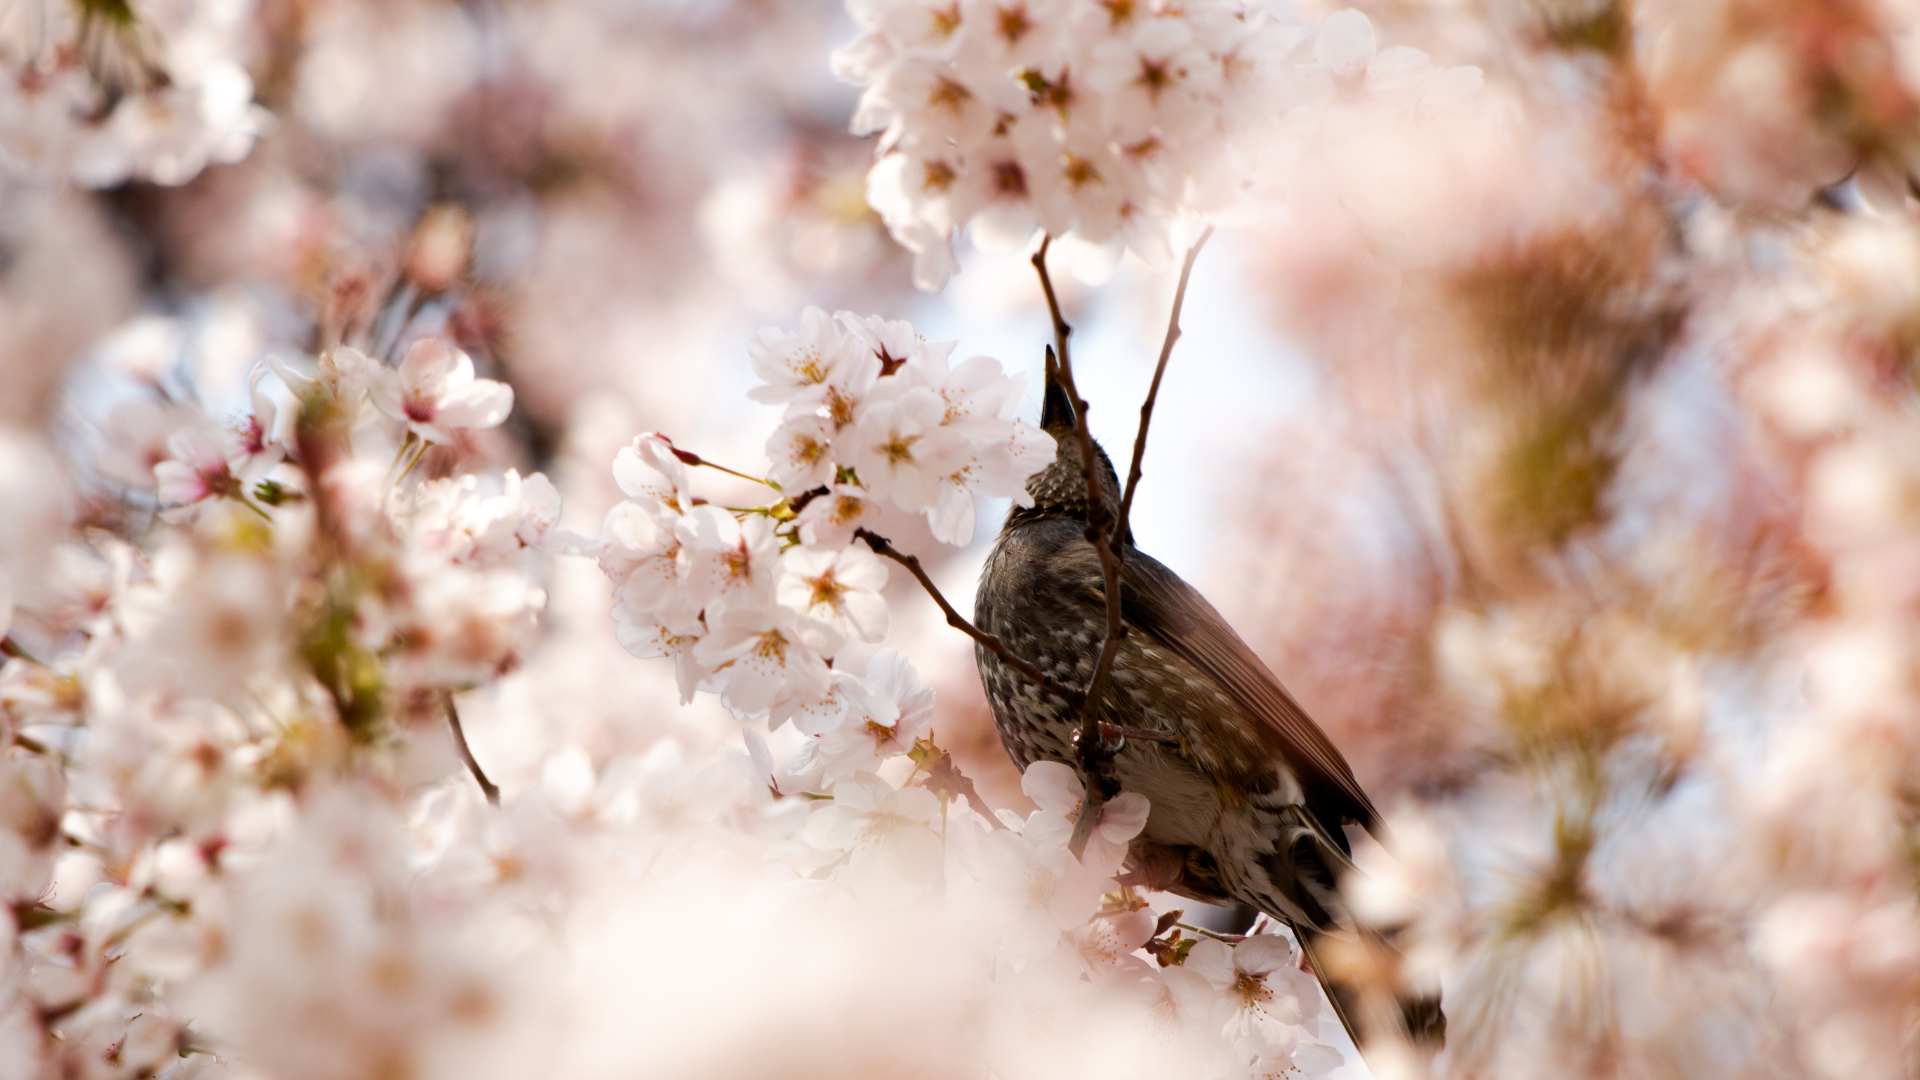
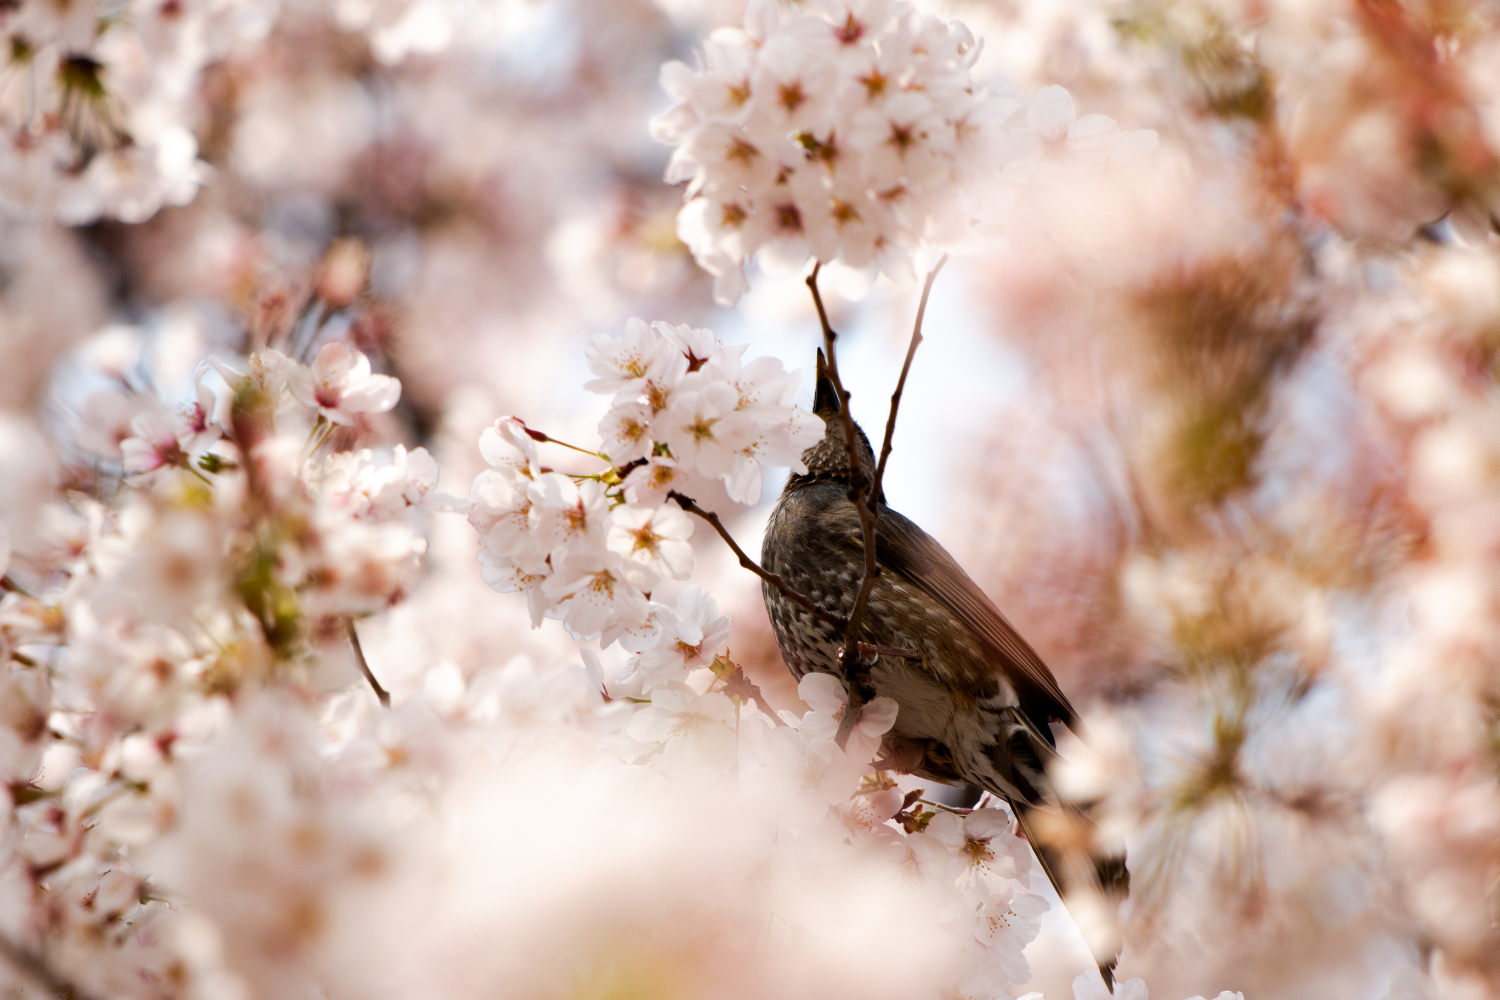
Create loading animation, modify background

diff --git a/src/components/Loading.vue b/src/components/Loading.vue
@@ -1,0 +1,113 @@
+<template>
+    <div id="loading">
+        <div id="fix"/>
+
+        <div id="logo_wait">
+            <img src="@/assets/header_logo/logo_black.svg" alt="logo" />
+        </div>
+
+        <div id="loading_anime">
+            <span class="loading_movie loading_movie-1" />
+            <span class="loading_movie loading_movie-2" />
+            <span class="loading_movie loading_movie-3" />
+        </div>
+    </div>
+</template>
+
+<script>
+export default {
+    
+}
+</script>
+
+<style>
+#fix {
+    width:100vw;
+    height:60px;
+    content:none;
+}
+
+#loading {
+    margin: auto;
+    display:flex;
+    flex-direction: column;
+    align-items:center;
+}
+
+#logo_wait img{
+    width:30vw;
+    height:auto;
+}
+
+#loading_anime {
+    display:flex;
+    align-items:center;
+    justify-content:center;
+    
+}
+.loading_movie {
+    display: block;
+
+    width:10px;
+    height:10px;
+
+    margin:0 5px;
+    margin-top:10px;
+
+    background-color:#EEF1F2;
+
+    transition: all .6s;
+    border-radius:3px;
+
+}
+
+.loading_movie-1 {
+    animation: change-color1 3s linear infinite;
+}
+
+.loading_movie-2 {
+    animation: change-color2 3s linear infinite;
+}
+
+.loading_movie-3 {
+    animation: change-color3 3s linear infinite;
+}
+
+@keyframes change-color1 {
+    0% {
+        background-color:#EEF1F2;
+    } 25% {
+        background-color: #1A1A1A; 
+    } 75% {
+        background-color: #1A1A1A; 
+    } 100% {
+        background-color:#EEF1F2;
+    }
+}
+
+@keyframes change-color2 {
+    30% {
+        background-color:#EEF1F2;
+    } 50% {
+        background-color: #1A1A1A; 
+    } 75% {
+        background-color: #1A1A1A; 
+    } 100% {
+        background-color:#EEF1F2;
+    }
+}
+
+@keyframes change-color3 {
+    50% {
+        background-color:#EEF1F2;
+    } 75% {
+        background-color: #1A1A1A; 
+    } 75% {
+        background-color: #1A1A1A; 
+    } 100% {
+        background-color:#EEF1F2;
+    }
+}
+</style>
+
+

diff --git a/src/components/SpHeader.vue b/src/components/SpHeader.vue
@@ -67,6 +67,7 @@ export default {
     }
   },
 
+  /* こいつが怪しい */
   beforeDestroy() {
     store.dispatch('closeHeader')
   }
@@ -83,25 +84,27 @@ export default {
   justify-content: space-between;
   position: fixed;
 
-  height: 40px;
+  height: 71px;
   width:100vw;
 
   z-index: 300;
-}
+  }
 
-#menu-icon {
+#menu_icon {
   position: absolute;
   right: 0;
   top: 0;
-  width: 40px;
-  height: 40px;
+
   cursor: pointer;
+
   z-index: 350;
+  
+  height: 100%;
+  width: 71px;
 }
 
 .menu_line {
   display: block;
-  content: '';
 
   position: relative;
 
@@ -111,10 +114,11 @@ export default {
   background-color:#1A1A1A;
 
   transition: all .6s;
-
   border-radius:6px;
 
   right:20px;
+  margin-left:36px;
+
   
 }
 
@@ -127,6 +131,8 @@ export default {
 
   background-color:#1A1A1A;
   opacity:0.4;
+
+  cursor: pointer;
   width:100vw;
   height:100vh;
 

diff --git a/src/store/index.js b/src/store/index.js
@@ -66,13 +66,13 @@ export default new Vuex.Store({
 
     updateHeaderMenu (state, payload) {
       state.headerMenuCheck = payload
-    }
+    },
 
-    /*setImage(state) {
-      let pic = 4
-      let num = Math.floor(Math.random()* pic)
-      state.img_src = "\'img_' + num + '.png\'
-    }*/
+    setImage(state) {
+      let pic = 3
+      let num = Math.floor(Math.random()* pic)+1
+      state.img_src = 'img_' + num + '.png'
+    }
 
     /*setImage(state, payload){
       state.img_src = payload
@@ -84,6 +84,9 @@ export default new Vuex.Store({
 
   },
   actions: {
+  setImage(context) {
+    context.commit('setImage')
+  },
     /*getTopArticle(context) {
       context.commit(topArticleJson)
     }*/

diff --git a/src/views/Home.vue b/src/views/Home.vue
@@ -3,7 +3,7 @@
     <div id="welcome">
 
       <!-- ここを自動生成できるようにする -->
-        <div class="bg-top" v-bind:style="{'background-image':'url(' + img_src + ')'}" ></div>
+        <div class="bg-top" v-bind:style="{'background-image':'url(' + require('@/assets/pic_background/' + img_src ) + ')'}" ></div>
         
         <!-- scrollアイコン -->
         <img class="scroll-icon" src="@/assets/scroll.svg">
@@ -71,6 +71,9 @@ export default {
     } else {
       store.dispatch('smartphoneHeader')
     }
+
+    // 動くかな〜
+    store.dispatch('setImage')
   },
 
   beforeDestroy() {

diff --git a/src/views/Contact.vue b/src/views/Contact.vue
@@ -80,16 +80,27 @@ export default {
   grid-template-rows: 40px 150px 1000px;
 
   /* 列 */
-  grid-template-columns: 30px 10px 360px;
+  grid-template-columns: 30px 10px auto;
 
   margin-left:auto;
   margin-right:auto;
   }
 
+  #form #intro{
+  margin-right:40px;
+  }
+
   #form #googleform{
   grid-row:3;
-  grid-column:3;
-  margin-left:-20px;
-}
+  grid-column:2/3;
+  width: 90vw;
+  margin:0 auto;
+  }
+
+  #googleform iframe{
+    margin-left:-10px;
+    width: 90vw;
+    height: 1200px;
+  }
 }
 </style>

diff --git a/src/router/index.js b/src/router/index.js
@@ -39,6 +39,12 @@ export default new VueRouter({
       props:true
     },
     {
+      // 一時的なもの
+      path:'/loading',
+      name:'loading',
+      component: () => import('../components/Loading.vue'),
+    },
+    {
       path: '*',
       redirect: '/'
     }

diff --git a/src/views/WorksDetail.vue b/src/views/WorksDetail.vue
@@ -101,6 +101,7 @@ export default {
   align-items: flex-start;
   margin-left:40px;
   
+  margin-bottom:50px;
   /* 検討課題
   align-self: flex-start;
   position: sticky;*/
